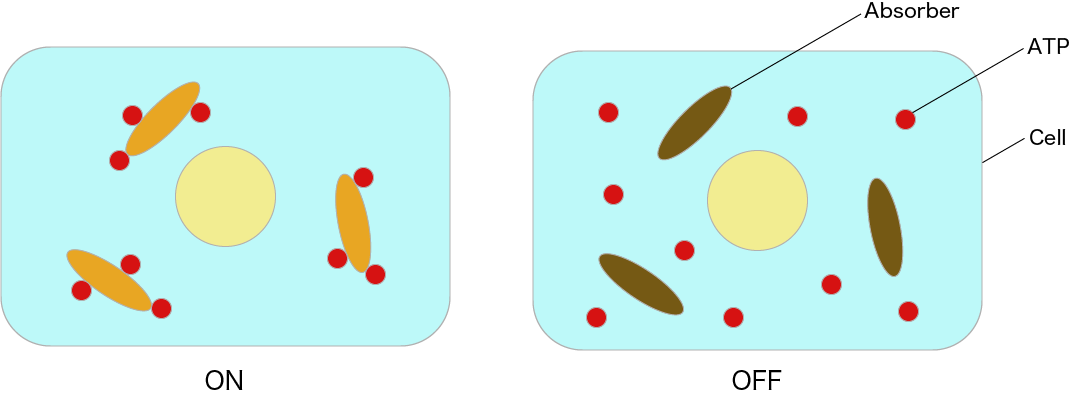
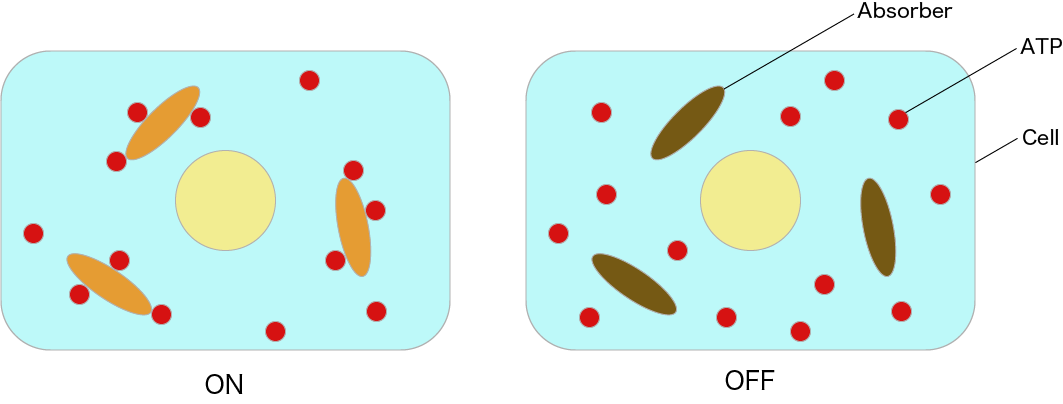
Change script & figure of SystemDesign

diff --git a/Web/SystemDesign/SystemDesign.html b/Web/SystemDesign/SystemDesign.html
@@ -52,7 +52,7 @@
             <ul>
                 <!--hrefをサブタイトルに変更して下さい-->
                 <li><a href="#Page-Overview">Page Overview</a></li>
-                <li><a href="#Mechanism-of-Absorbing-ATP">Mechanism of Absorbing ATP</a></li>
+                <li><a href="#Mechanism-of-Absorbing-ATP">Mechanism</a></li>
                 <li><a href="#DNA-Circuit">DNA Circuit</a></li>
             </ul>
         </nav>
@@ -65,13 +65,13 @@
               <h1>Page Overview</h1>
               <p> &nbsp;&nbsp;&nbsp;&nbsp;&nbsp;&nbsp;&nbsp;&nbsp;As mentioned in Our Project of Idea, YOKABIO aims to establish a control system for a new transmission system using DNA circuits.
                 As an example, we describe the reduction of ATP levels and methods for controlling these levels.
-                This page mainly explains two points. The first is the mechanism of absorbing ATP, while the second is the DNA circuit controlling the mechanism.(Click image to enlarge)
+                This page mainly explains two points. The first is the mechanism of absorbing ATP, while the second is the DNA circuit controlling the mechanism (Click image to enlarge).
               </p>
             </div>
 
             <div class="space" id="Mechanism-of-Absorbing-ATP"></div>
             <div class="section2">
-              <h1>Mechanism of Absorbing ATP</h1>
+              <h1>Mechanism</h1>
               <p> &nbsp;&nbsp;&nbsp;&nbsp;&nbsp;&nbsp;&nbsp;&nbsp;We use the polymerase reaction as a method of absorbing ATP from cells. Polymerase is an enzyme that produces nucleic acids or chains such as DNA or RNA [7].
                 In this project, we used double-stranded DNA containing a T7 promoter sequence as a template and NTPs (nucleoside triphosphates) as substrates.
                 Additionally, we used T7 RNA polymerase, which produces complementary single-stranded RNA for a template DNA downstream of the promoter (Figure 1, Video 1).<br><br>
@@ -127,21 +127,25 @@
                   Figure 4: Image of ON State &amp; OFF State in Cells<br><br>
                 </figure>
 
-                <p> &nbsp;&nbsp;&nbsp;&nbsp;&nbsp;&nbsp;&nbsp;&nbsp;As shown in Figure 3, we can switch the system on and off by adjusting the temperature and through dissociating and coupling. However, because this system is used in cells, it may be impossible to control the system by heating and cooling. Additionally, when using enzymes, it is necessary to strictly control the temperature and pH value, making it difficult to apply this system in live cells. Therefore, we designed a DNA circuit without enzymes that utilizes only the DNA strand displacement reaction, which is expected to be useful in vivo. A diagram of our intended switch is shown. The area value in this figure represents the total ATP consumption by the Absorber. ATP consumption can be controlled by changing the Absorber (ON) time.</p>
+                <p> &nbsp;&nbsp;&nbsp;&nbsp;&nbsp;&nbsp;&nbsp;&nbsp;As shown in Figure 3, we can switch the system on and off by adjusting the temperature and through dissociating and coupling. However, because this system is used in cells, it may be impossible to control the system by heating and cooling. Additionally, when using enzymes, it is necessary to strictly control the temperature and pH value, making it difficult to apply this system in live cells. Therefore, we designed a DNA circuit without enzymes that utilizes only the DNA strand displacement reaction, which is expected to be useful in vivo. A diagram of our intended switch is shown. The area value in this figure represents the total ATP consumption by the Absorber. ATP consumption can be controlled by changing the Absorber(ON) time.</p>
+                
+                <p> &nbsp;&nbsp;&nbsp;&nbsp;&nbsp;&nbsp;&nbsp;&nbsp;Figure 5 shows the inside ofthe cell with and without ON-OFF Switch in the DNA circuit. Then, the arrows indicate the passage of time, (and when going to the right, it indicates that time has passed.)If switching from ON to OFF is impossible, Absorber absorbs all ATP as shown in (b), and ATP disappears from within the cell. In order to prevent this, wewill useON-OFF Switch. In addition, since this Absorber keeps absorbing ATP only for the ON state time, it is possible to adjust the ATP amount by adjusting the ON time (a).<br><br></p>
+                <a href="Image/ON_OFF_Switch_Comparison.png" data-lightbox="fig"><img src="Image/ON_OFF_Switch_Comparison.png" width="70%"></a>
+                <figcaption>Figure 5: Comparison with and without the ON-OFF switch</figcaption>
 
-                <p> &nbsp;&nbsp;&nbsp;&nbsp;&nbsp;&nbsp;&nbsp;&nbsp;
-                  Finally, we reduced ATP levels and switched the ON-OFF state; the DNA circuit is shown in Figure 5. (The double-strand composed of a and a* is the T7 promoter sequence. Additionally, a double-strand composed of b and b* causes RNA to consume ATP.)
+                <p><br>&nbsp;&nbsp;&nbsp;&nbsp;&nbsp;&nbsp;&nbsp;&nbsp;
+                  Finally, we reduced ATP levels and switched the ON-OFF state; the DNA circuit is shown in Figure 6 (The double-strand composed of a and a* is the T7 promoter sequence. Additionally, a double-strand composed of b and b* causes RNA to consume ATP).<br><br>
                 </p>
 
                 <a href="Image/circuit.gif" data-lightbox="fig5"><img src="Image/circuit.gif" width="80%" height="auto"></a><br>
-                Figure 5: Scheme of ON-OFF Switch Circuit<br><br>
+                Figure 6: Scheme of ON-OFF Switch Circuit<br><br>
 
                 <h2>Delay Element</h2>
-                <p> &nbsp;&nbsp;&nbsp;&nbsp;&nbsp;&nbsp;&nbsp;&nbsp;We used a seesaw gate to control the time between the ON state and OFF state. The seesaw gate is an arithmetic element such as that shown in Figure 6 for DNA molecular reactions [9][10]. It produces an output for inputs exceeding a preset threshold, but causes a delay. We predicted that this delay is useful for adjusting the times in the ON→OFF states and controlling ATP absorption. The right part of Figure 5 shows the seesaw gate. (Its simulation is described in the Proof of Concept and its advantages are described in the Discussion of Application.)<br><br>
+                <p> &nbsp;&nbsp;&nbsp;&nbsp;&nbsp;&nbsp;&nbsp;&nbsp;We used a seesaw gate to control the time between the ON state and OFF state. The seesaw gate is an arithmetic element such as that shown in Figure 7 for DNA molecular reactions [9][10]. It produces an output for inputs exceeding a preset threshold, but causes a delay. We predicted that this delay is useful for adjusting the times in the ON→OFF states and controlling ATP absorption. The right part of Figure 6 shows the seesaw gate (Its simulation is described in the Proof of Concept and its advantages are described in the Discussion of Application).<br><br>
                 </p>
 
                 <a href="Image/Arithmetic_element.png" data-lightbox="fig6"><img src="Image/Arithmetic_element.png" width="60%" height="auto"></a><br>
-                Figure 6: Arithmetic Element<br><br>
+                Figure 7: Arithmetic Element<br><br>
 
                 <p> &nbsp;&nbsp;&nbsp;&nbsp;&nbsp;&nbsp;&nbsp;&nbsp;This circuit was composed of four DNA strand displacement reaction processes. Each of these reaction processes is explained below in <a style="color: red">the DNA Circuit Operation </a>section.<br><br>
                 </p>
@@ -154,32 +158,32 @@
                     <dd>
                       <p><br>
                         &nbsp;&nbsp;&nbsp;&nbsp;&nbsp;&nbsp;&nbsp;&nbsp;First, the circuit starts by adding the Input.
-                        In the first process, we aimed to prepare models of Signal1 and Signal2 using a strand displacement reaction (Figure 7, Figure 8).
-                        The output Signal 1 and single-stranded DCC result in hybridization to form double-strands.
-                        Thus, DCC is changed from the OFF state to the ON state (Video 2).<br><br>
+                        In the first process, we aimed to prepare models of Signal1 and Signal2 using a strand displacement reaction (Figure 8, Figure 9).
+                        The output Signal 1 and single-stranded the Absorber result in hybridization to form double-strands.
+                        Thus, the Absorber is changed from the OFF state to the ON state (Video 3).<br><br>
 
                         &nbsp;&nbsp;&#9312;&nbsp;T0* of Gate1 is bound to T0 of Input.<br>
                         &nbsp;&nbsp;&#9313;&nbsp;Gate1 and Input are effectively combined.<br>
                         &nbsp;&nbsp;&#9314;&nbsp;A part of Gage1 separates from the complex.<br>
                         &nbsp;&nbsp;&#9315;&nbsp;Signal1, Signal2, and Waste are generated by separating the components.<br>
-                        &nbsp;&nbsp;&#9316;&nbsp;Absorber(ON) is generated by Absorber(OFF) and Signal1 (Figure 8).<br><br>
+                        &nbsp;&nbsp;&#9316;&nbsp;Absorber(ON) is generated by Absorber(OFF) and Signal1 (Figure 9).<br><br>
                       </p>
 
                       <figure>
                         <a href="Image/1/Gate1&Input.gif" data-lightbox="fig7"><img src="Image/1/Gate1&Input.gif" width="100%" height="auto"></a>
-                        <figcaption>Figure 7: First Process (1)</figcaption>
+                        <figcaption>Figure 8: First Process (1)</figcaption>
                       </figure>
 
                       <figure>
                         <a href="Image/1/T7Promoter(OFF)&Signal1.gif" data-lightbox="fig8"><img src="Image/1/T7Promoter(OFF)&Signal1.gif" width="80%" height="auto"></a>
-                        <figcaption>Figure 8: First Process (2)</figcaption>
+                        <figcaption>Figure 9: First Process (2)</figcaption>
                       </figure>
 
                       <figure>
                         <video controls width="120%" height="auto">
                             <source src="Video/Gate1&input.mp4">
                         </video>
-                        <figcaption>Video 2: Gate1 &amp; Input</figcaption><br>
+                        <figcaption>Video 3: Gate1 &amp; Input</figcaption><br>
                       </figure>
                     </dd>
 
@@ -188,7 +192,7 @@
                       <p><br>
                           &nbsp;&nbsp;&nbsp;&nbsp;&nbsp;&nbsp;&nbsp;&nbsp;In the second process, we controlled the reaction using a gate of the threshold concentration.
                           The threshold value is determined by Threshold. Moreover, Signal2 and Threshold interact to cause a strand displacement reaction and then Signal2 disappears.
-                          Thus, Signal2 must exceed the Threshold concentration for the reaction to proceed (Figure 9, Video 3).<br><br>
+                          Thus, Signal2 must exceed the Threshold concentration for the reaction to proceed (Figure 10, Video 4).<br><br>
 
                           &nbsp;&nbsp;&#9312;&nbsp;T3* of Threshold is bound to T3 of Signal2.<br>
                           &nbsp;&nbsp;&#9313;&nbsp;Threshold and Signal2 are effectively combined.<br>
@@ -198,14 +202,14 @@
 
                       <figure>
                         <a href="Image/2/Signal2&Threshold.gif" data-lightbox="fig9"><img src="Image/2/Signal2&Threshold.gif" width="100%" height="auto"></a>
-                        <figcaption>Figure 9: Second Process</figcaption>
+                        <figcaption>Figure 10: Second Process</figcaption>
                       </figure>
 
                       <figure>
                         <video controls width="100%" height="auto">
                          <source src="Video/signal2&threshold.mp4">
                         </video>
-                        <figcaption>Video 3: Signal2&amp;Threshold</figcaption>
+                        <figcaption>Video 4: Signal2&amp;Threshold</figcaption>
                       </figure><br>
 
                       <p><br>Signal2 exceeding the Threshold concentration enters the Third process,
@@ -216,7 +220,7 @@
                   <dt>&nbsp;&nbsp;&nbsp;&nbsp;Third Process<span class="dt-mark">▼</span></dt>
                     <dd>
                       <p><br>
-                          &nbsp;&nbsp;&nbsp;&nbsp;&nbsp;&nbsp;&nbsp;&nbsp;In the third process, we perform processing through a chain reaction of the strand displacement reaction known as the seesaw gate (Figure 10, Figure 11, and Video 4).<br><br>
+                          &nbsp;&nbsp;&nbsp;&nbsp;&nbsp;&nbsp;&nbsp;&nbsp;In the third process, we perform processing through a chain reaction of the strand displacement reaction known as the seesaw gate (Figure 11, Figure 12, and Video 5).<br><br>
 
                           &nbsp;&nbsp;&#9312;&nbsp;&nbsp;T3* of Gate2 is bound to T3 of Signal2.<br>
                           &nbsp;&nbsp;&#9313;&nbsp;&nbsp;Gate2 and Signal2 are effectively combined.<br>
@@ -236,19 +240,19 @@
 
                       <figure>
                         <a href="Image/3/Gate2&Signal2.gif" data-lightbox="fig10"><img src="Image/3/Gate2&Signal2.gif" width="80%" height="auto"></a>
-                        <figcaption>Figure 10: Third Process (1)</figcaption>
+                        <figcaption>Figure 11: Third Process (1)</figcaption>
                       </figure>
 
                       <figure>
                         <a href="Image/3/Gate2&Signal2_explanation.gif" data-lightbox="fig11"><img src="Image/3/Gate2&Signal2_explanation.gif" width="100%" height="auto"></a>
-                        <figcaption>Figure 11 : Third Process (2)</figcaption>
+                        <figcaption>Figure 12 : Third Process (2)</figcaption>
                       </figure>
 
                       <figure>
                         <video controls width="120%" height="auto">
                           <source src="Video/seasow.mp4">
                         </video>
-                        <figcaption>Video 4: Seesaw Gate</figcaption>
+                        <figcaption>Video 5: Seesaw Gate</figcaption>
                       </figure>
                     </dd>
 
@@ -256,7 +260,7 @@
                     <dd>
                       <p><br>
                           &nbsp;&nbsp;&nbsp;&nbsp;&nbsp;&nbsp;&nbsp;&nbsp;In the final process, we aimed to change the double-stranded Absorber into single-stranded Absorber by dissociating Signal1 from double-stranded Absorber.
-                          Thus, we aimed to switch the state of the circuit from ON to OFF (Figure 12, Video 5).<br><br>
+                          Thus, we aimed to switch the state of the circuit from ON to OFF (Figure 13, Video 6).<br><br>
 
                           &nbsp;&nbsp;&#9312;&nbsp;T1 of Absorber(ON) is bound to T1* of the Releaser.<br>
                           &nbsp;&nbsp;&#9313;&nbsp;Absorber(ON) and Releaser are effectively combined.<br>
@@ -266,29 +270,33 @@
 
                       <figure>
                         <a href="Image/4/T7Promoter(ON)&Releaser.gif" data-lightbox="fig12"><img src="Image/4/T7Promoter(ON)&Releaser.gif" width="100%" height="auto"></a>
-                        <figcaption>Figure 12: Final Process</figcaption>
+                        <figcaption>Figure 13: Final Process</figcaption>
                       </figure>
 
                       <figure>
                         <video controls width="90%" height="auto">
                           <source src="Video/ON&Releaser.mp4">
                         </video>
-                        <figcaption>Video 5: Absorber(ON)&amp;Releaser</figcaption>
+                        <figcaption>Video 6: Absorber(ON) &amp; Releaser</figcaption>
                       </figure>
                     </dd>
 
                     <p id="variousproblems"><br>&nbsp;&nbsp;&nbsp;&nbsp;&nbsp;&nbsp;&nbsp;&nbsp;According to the previous four processes, we switched the state of the circuit(<b>OFF → ON → OFF</b>) automatically.
                       Thus, single administration of Absorber can be conducted and is convenient.<br><br>
 
-                        &nbsp;&nbsp;&nbsp;&nbsp;&nbsp;&nbsp;&nbsp;&nbsp;However, Figure 5 shows two limitations. First, the circuit causes an undesired reaction when it starts. For instance, we mentioned the Input and DCC (OFF) here. After the Input is administered, Input and DCC (OFF) may undergo hybridization because part of their base sequences is complementary. These domains should be changed to prevent hybridization. However, this is not possible in principle because we the domains of Signal1 and Gate1_under would be changed in response to the Input. The circuit now involves the three undesired reactions listed below.<br>
+                        &nbsp;&nbsp;&nbsp;&nbsp;&nbsp;&nbsp;&nbsp;&nbsp;However, Figure 6 shows two limitations. First, the circuit causes an undesired reaction when it starts. For instance, we mentioned the Input and the Absorber(OFF) here. After the Input is administered, Input and the Absorber(OFF) may undergo hybridization because part of their base sequences is complementary. These domains should be changed to prevent hybridization. However, this is not possible in principle because we the domains of Signal1 and Gate1_under would be changed in response to the Input. The circuit now involves the three undesired reactions listed below.<br>
                         &nbsp;&nbsp;&#9312;&nbsp;Input binds to Absorber(OFF)<br>
                         &nbsp;&nbsp;&#9313;&nbsp;Signal1 binds to Signal2<br>
                         &nbsp;&nbsp;&#9314;&nbsp;Input binds to Gate2<br><br>
 
                         Second, some double-stranded DNA contains the T7 RNA promoter and the polymerase reaction occurs even when the circuit is not in the ON state. Therefore, we used <b>mismatched base pairs</b>  to overcome these limitations.
                         Mismatched base pair is described in detail in Experiment's
-                        <a href="../Experiment/Experiment.html#Material&Methods">Material &amp; Method</a>.<br><br>
+                        <a href="../Experiment/Experiment.html#Material&Methods">Material &amp; Method</a>.
+                        The circuit diagram of the ATP controller with mismatch base pair added is as follows (Figure 14). 
+                        The part surrounded by red in Figure 14 is the part where the mismatch base pair is added.<br><br>
                     </p>
+                    <a href="Image/circuit_m_redline.gif" data-lightbox="fig14"><img src="Image/circuit_m_redline.gif" width="80%"></a>
+                    <figcaption>Figure 14: Scheme of ON-OFF Switch Circuit with Mismatch Base Pair</figcaption>
                 </dl>
             </div>
         </main>
